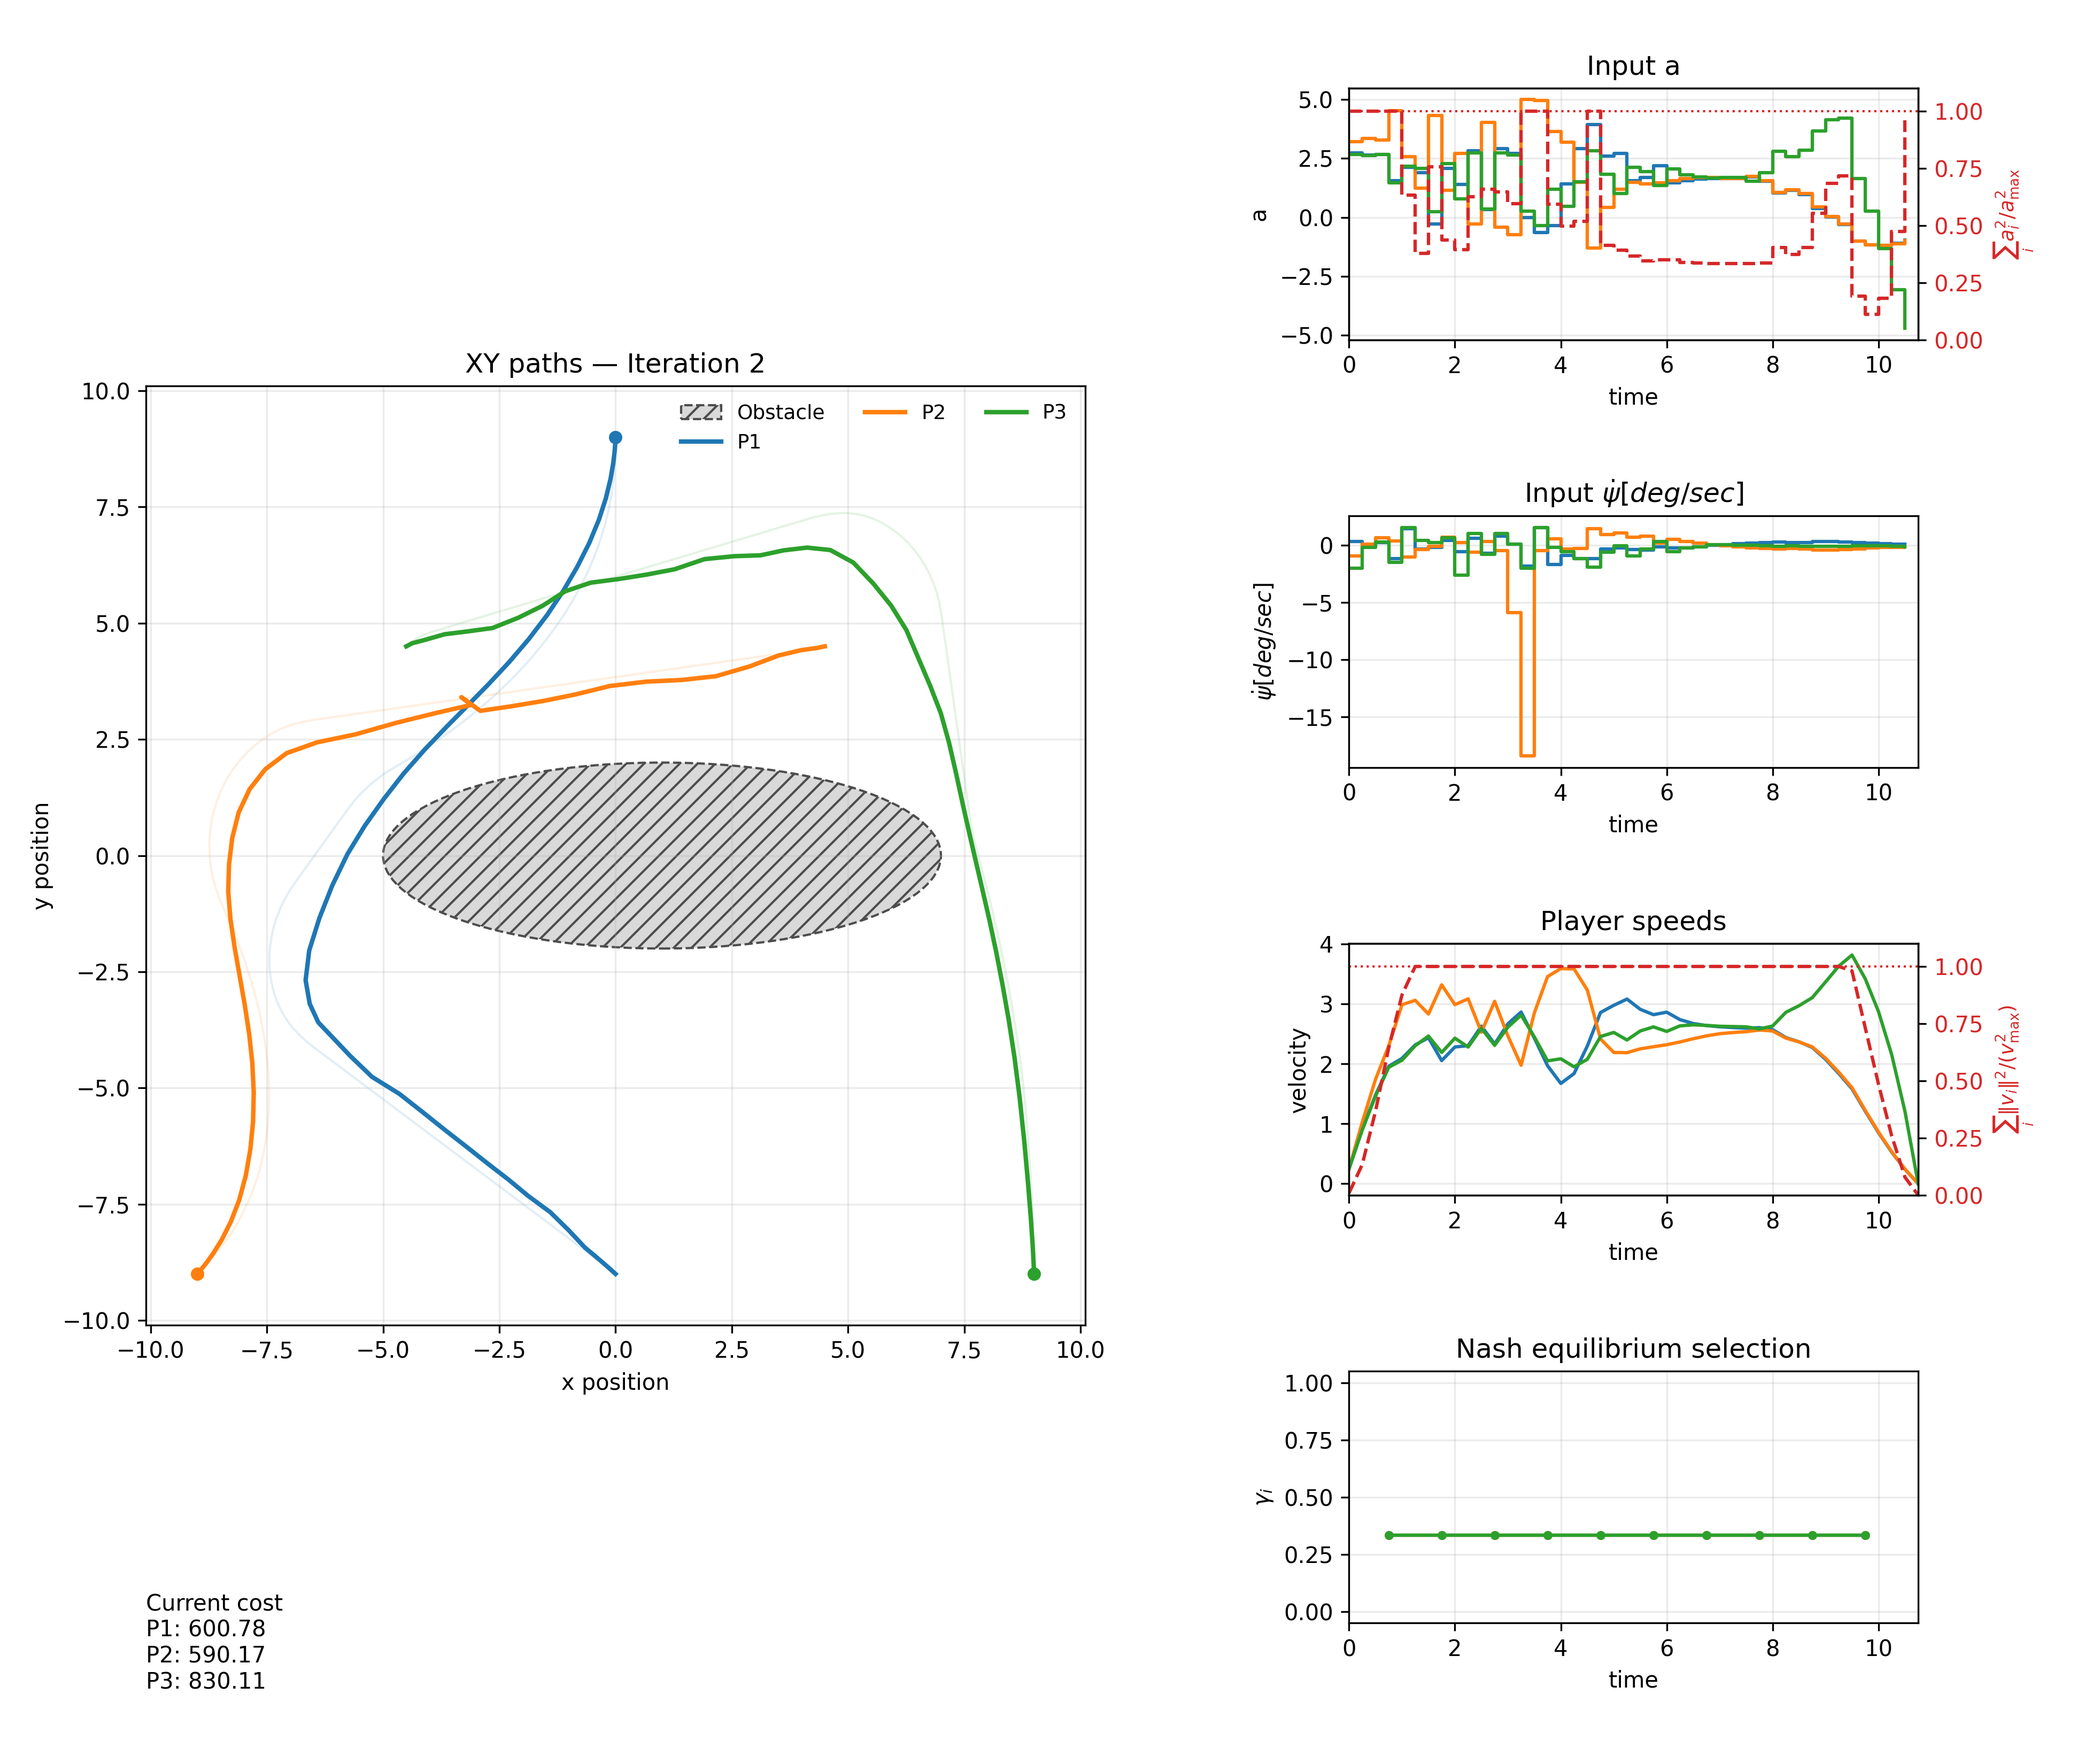
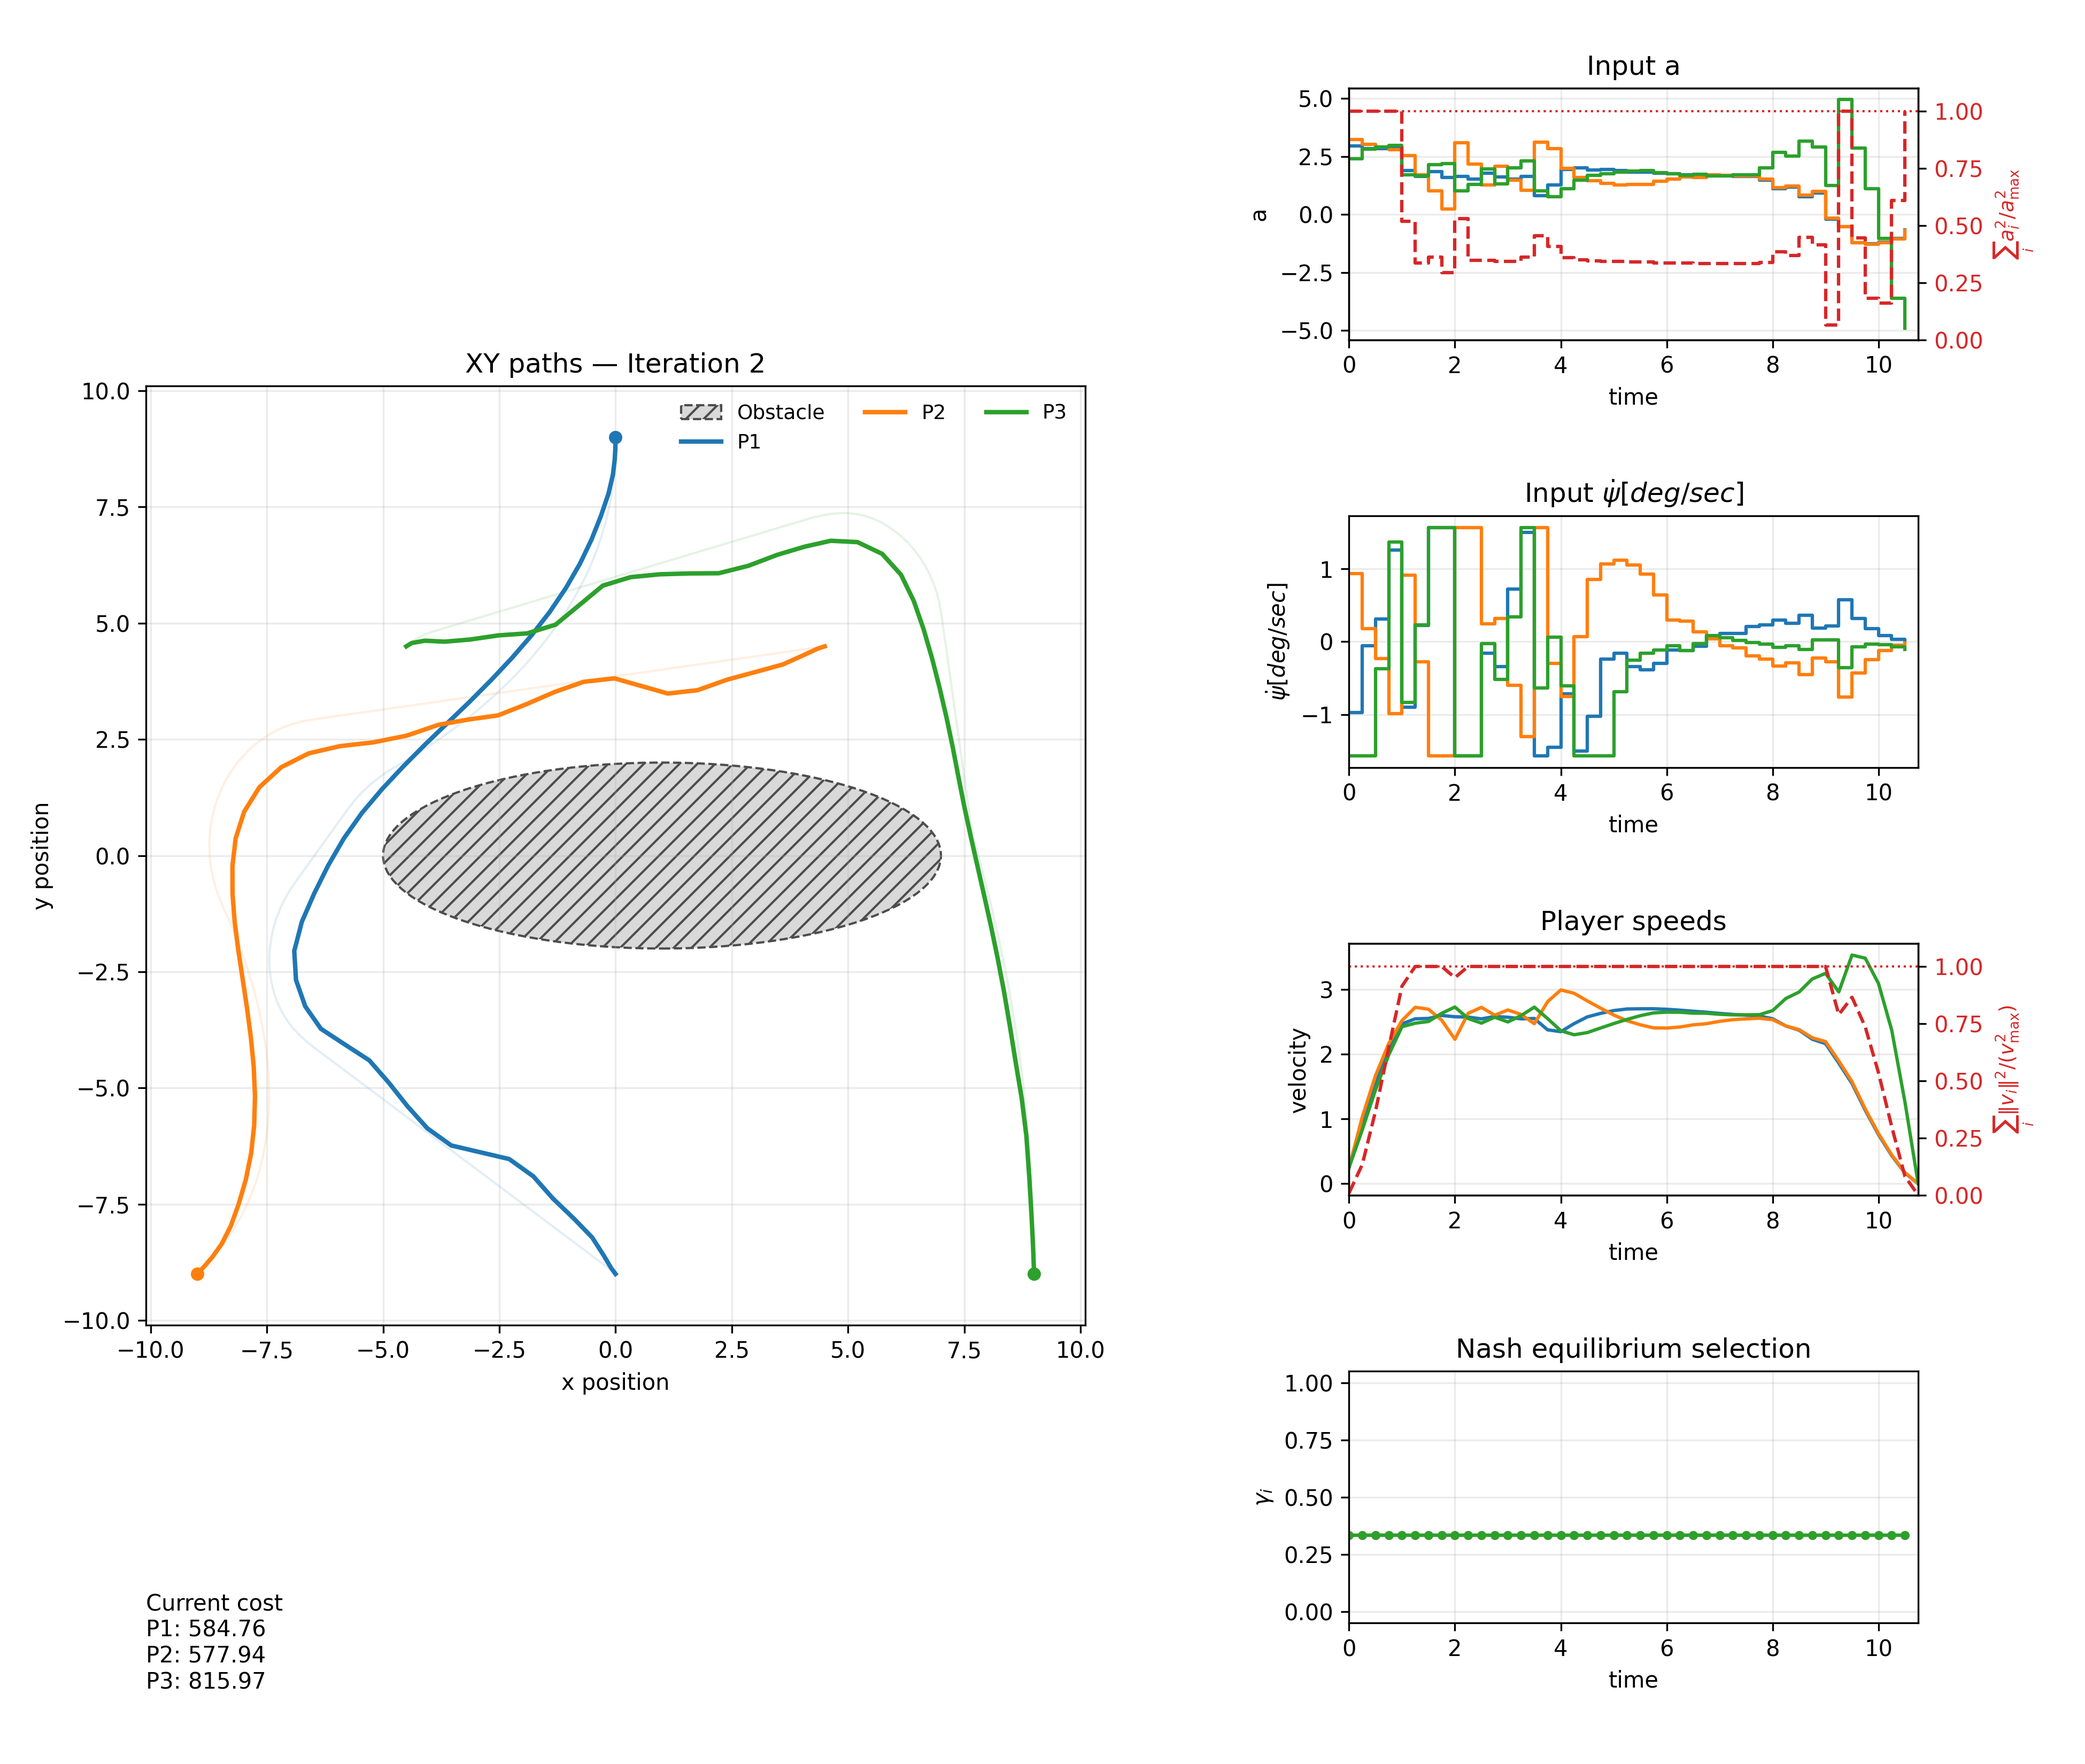
update single mpc

diff --git a/DGSolver.py b/DGSolver.py
@@ -2841,7 +2841,7 @@ class DGSolver:
                 cost += self.stage_costs[p](x[p*self.game.nx1:(p+1)*self.game.nx1,k], u[p*self.game.nu1:(p+1)*self.game.nu1,k])
         opti.minimize(cost)
         
-        p_opts = {"print_time": 0, "ipopt": {"max_iter": 500, "print_level": 0}}
+        p_opts = {"print_time": 0, "ipopt": {"max_iter": 500, "print_level": 0, "mu_strategy": "adaptive", "tol": 1e-5}}
         
         
         opti.solver("ipopt", p_opts)
@@ -2873,7 +2873,7 @@ class DGSolver:
             cost += self.stage_costs[p](x[:,k], u[:,k])
         opti.minimize(cost)
         
-        p_opts = {"print_time": 0, "ipopt": {"max_iter": 500, "print_level": 0, "mu_strategy": "adaptive"}}
+        p_opts = {"print_time": 0, "ipopt": {"max_iter": 500, "print_level": 0, "mu_strategy": "adaptive", "tol": 1e-5}}
         
         
         opti.solver("ipopt", p_opts)

diff --git a/LDG_Simulation.py b/LDG_Simulation.py
@@ -59,7 +59,7 @@ x0_players = (
 alpha1, alpha2 = 1/3.0, 1/3.0
 
 max_workers = min(25, max(1, int(os.cpu_count() * 0.33)))
-# max_workers = 1
+max_workers = 1
         
 
 if __name__ == '__main__':
